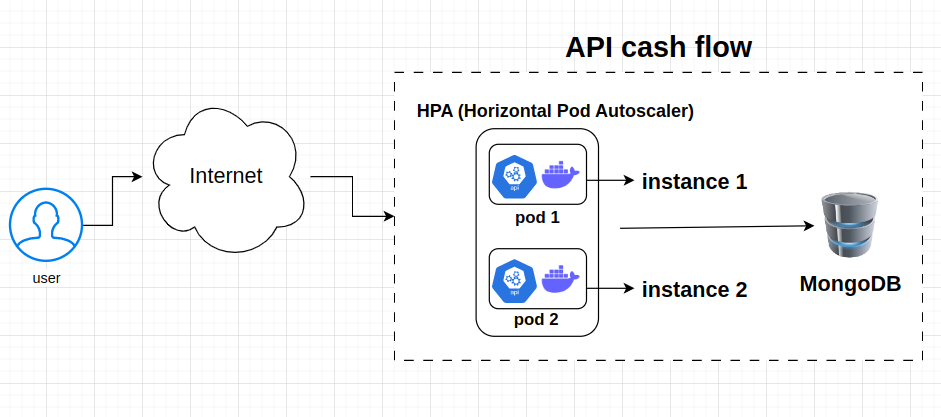
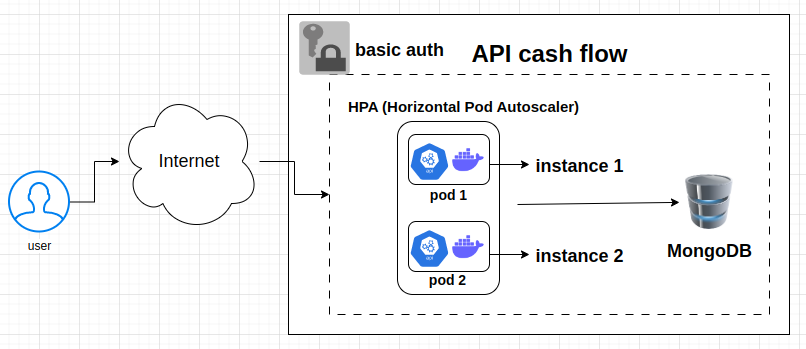
Atualizações + basic auth

diff --git a/src/main/java/com/cashflow/config/BasicAuthSecurityConfig.java b/src/main/java/com/cashflow/config/BasicAuthSecurityConfig.java
@@ -1,0 +1,34 @@
+package com.cashflow.config;
+
+import org.springframework.context.annotation.Configuration;
+import org.springframework.security.config.annotation.authentication.builders.AuthenticationManagerBuilder;
+import org.springframework.security.config.annotation.web.builders.HttpSecurity;
+import org.springframework.security.config.annotation.web.configuration.WebSecurityConfigurerAdapter;
+import org.springframework.security.core.userdetails.User;
+import org.springframework.security.crypto.password.NoOpPasswordEncoder;
+import org.springframework.security.provisioning.InMemoryUserDetailsManager;
+
+@Configuration
+public class BasicAuthSecurityConfig extends WebSecurityConfigurerAdapter {
+
+    @Override
+    protected void configure(AuthenticationManagerBuilder auth) throws Exception {
+        var userDetailsService = new InMemoryUserDetailsManager();
+
+        var user = User.withUsername("cash")
+            .password("x123x")
+            .authorities("read")
+            .build();
+
+        userDetailsService.createUser(user);
+
+        auth.userDetailsService(userDetailsService)
+            .passwordEncoder(NoOpPasswordEncoder.getInstance());
+    }
+
+    @Override
+    protected void configure(HttpSecurity http) throws Exception {
+        http.httpBasic();
+        http.authorizeRequests().anyRequest().authenticated();
+    }
+}

diff --git a/README.md b/README.md
@@ -37,6 +37,11 @@ Running local:
 
 ### Calls
 
+IMPORTANT!
+
+Put the basic auth user as below:
+![Screenshot](basic-auth.png)
+
 Postman: see postman's folder in project root (import and change IP Kubernetes's calls)
 
 ### Return of entries and exits in the period and updated balance
